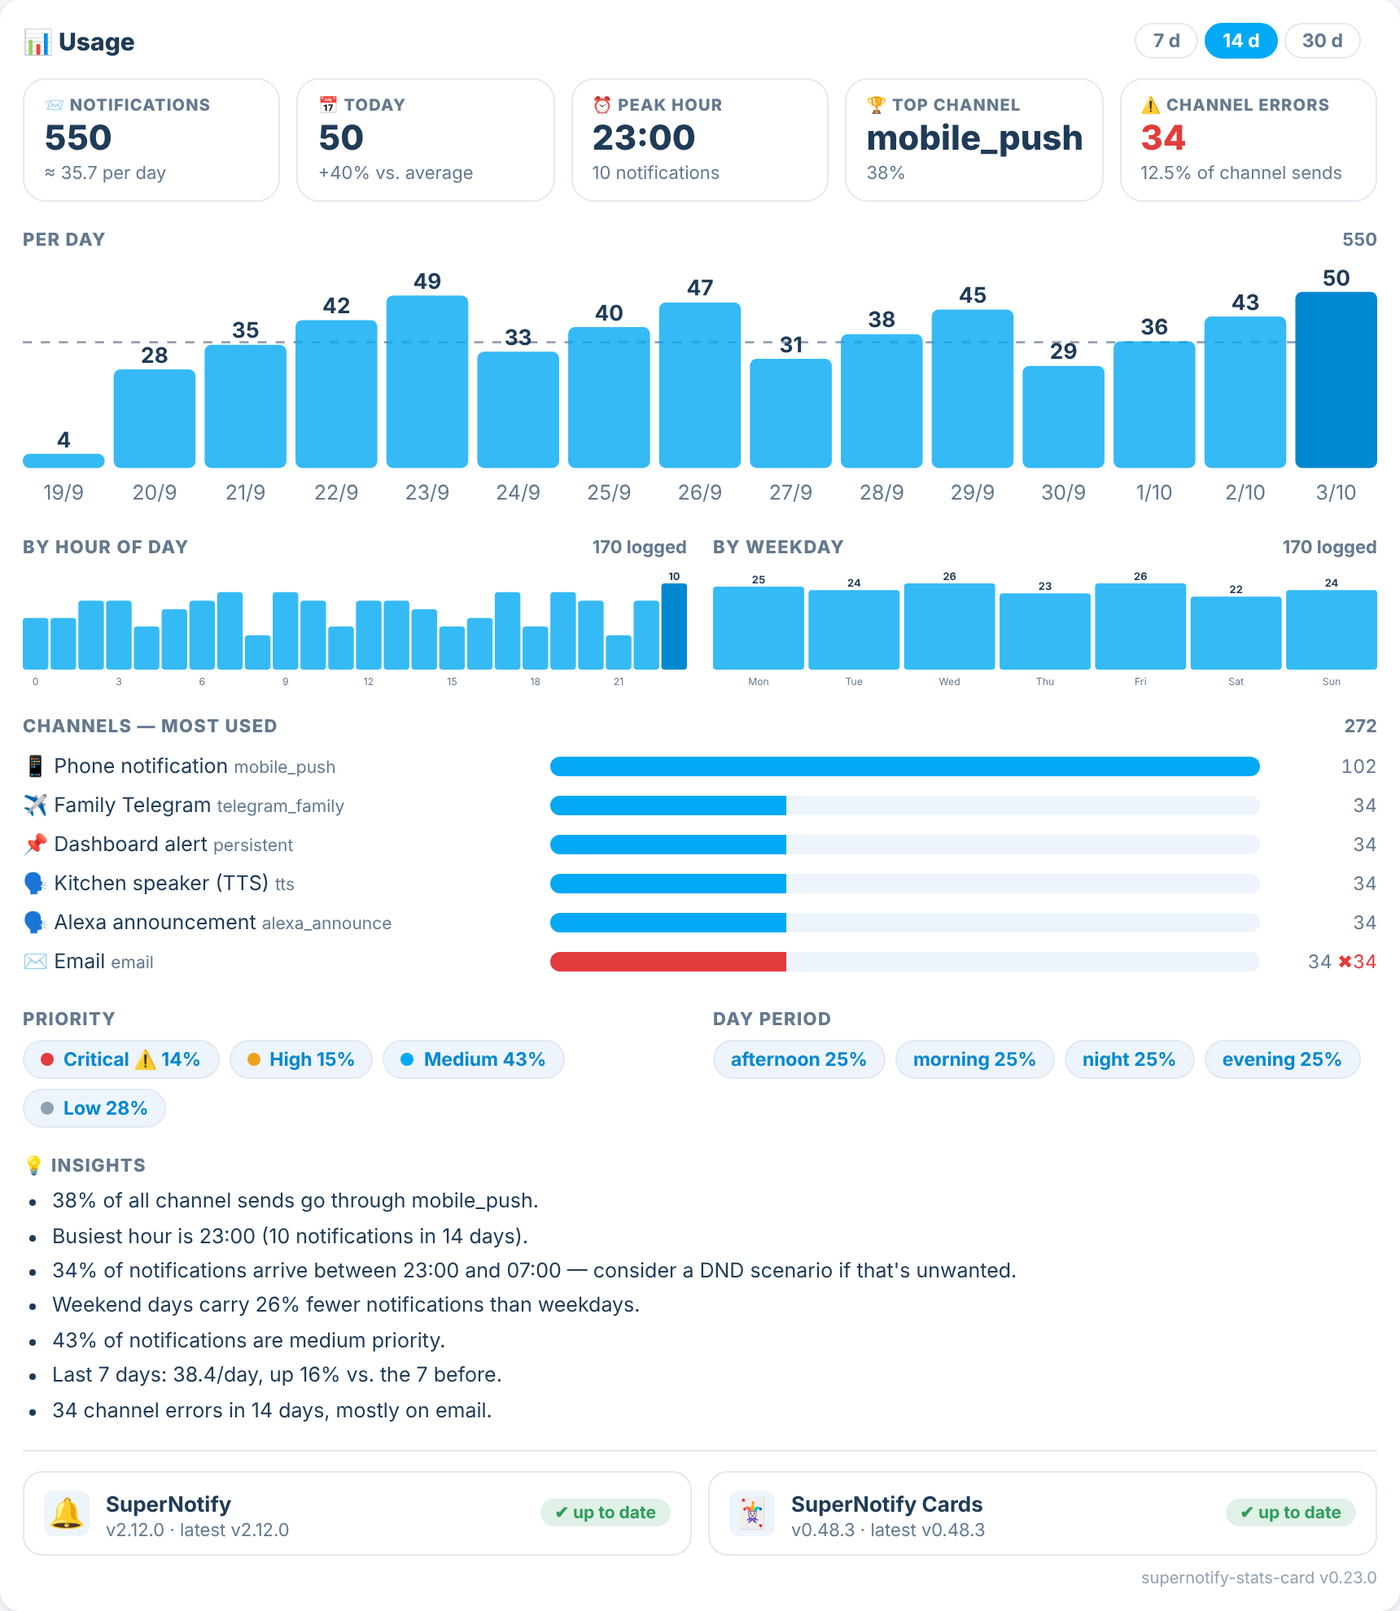
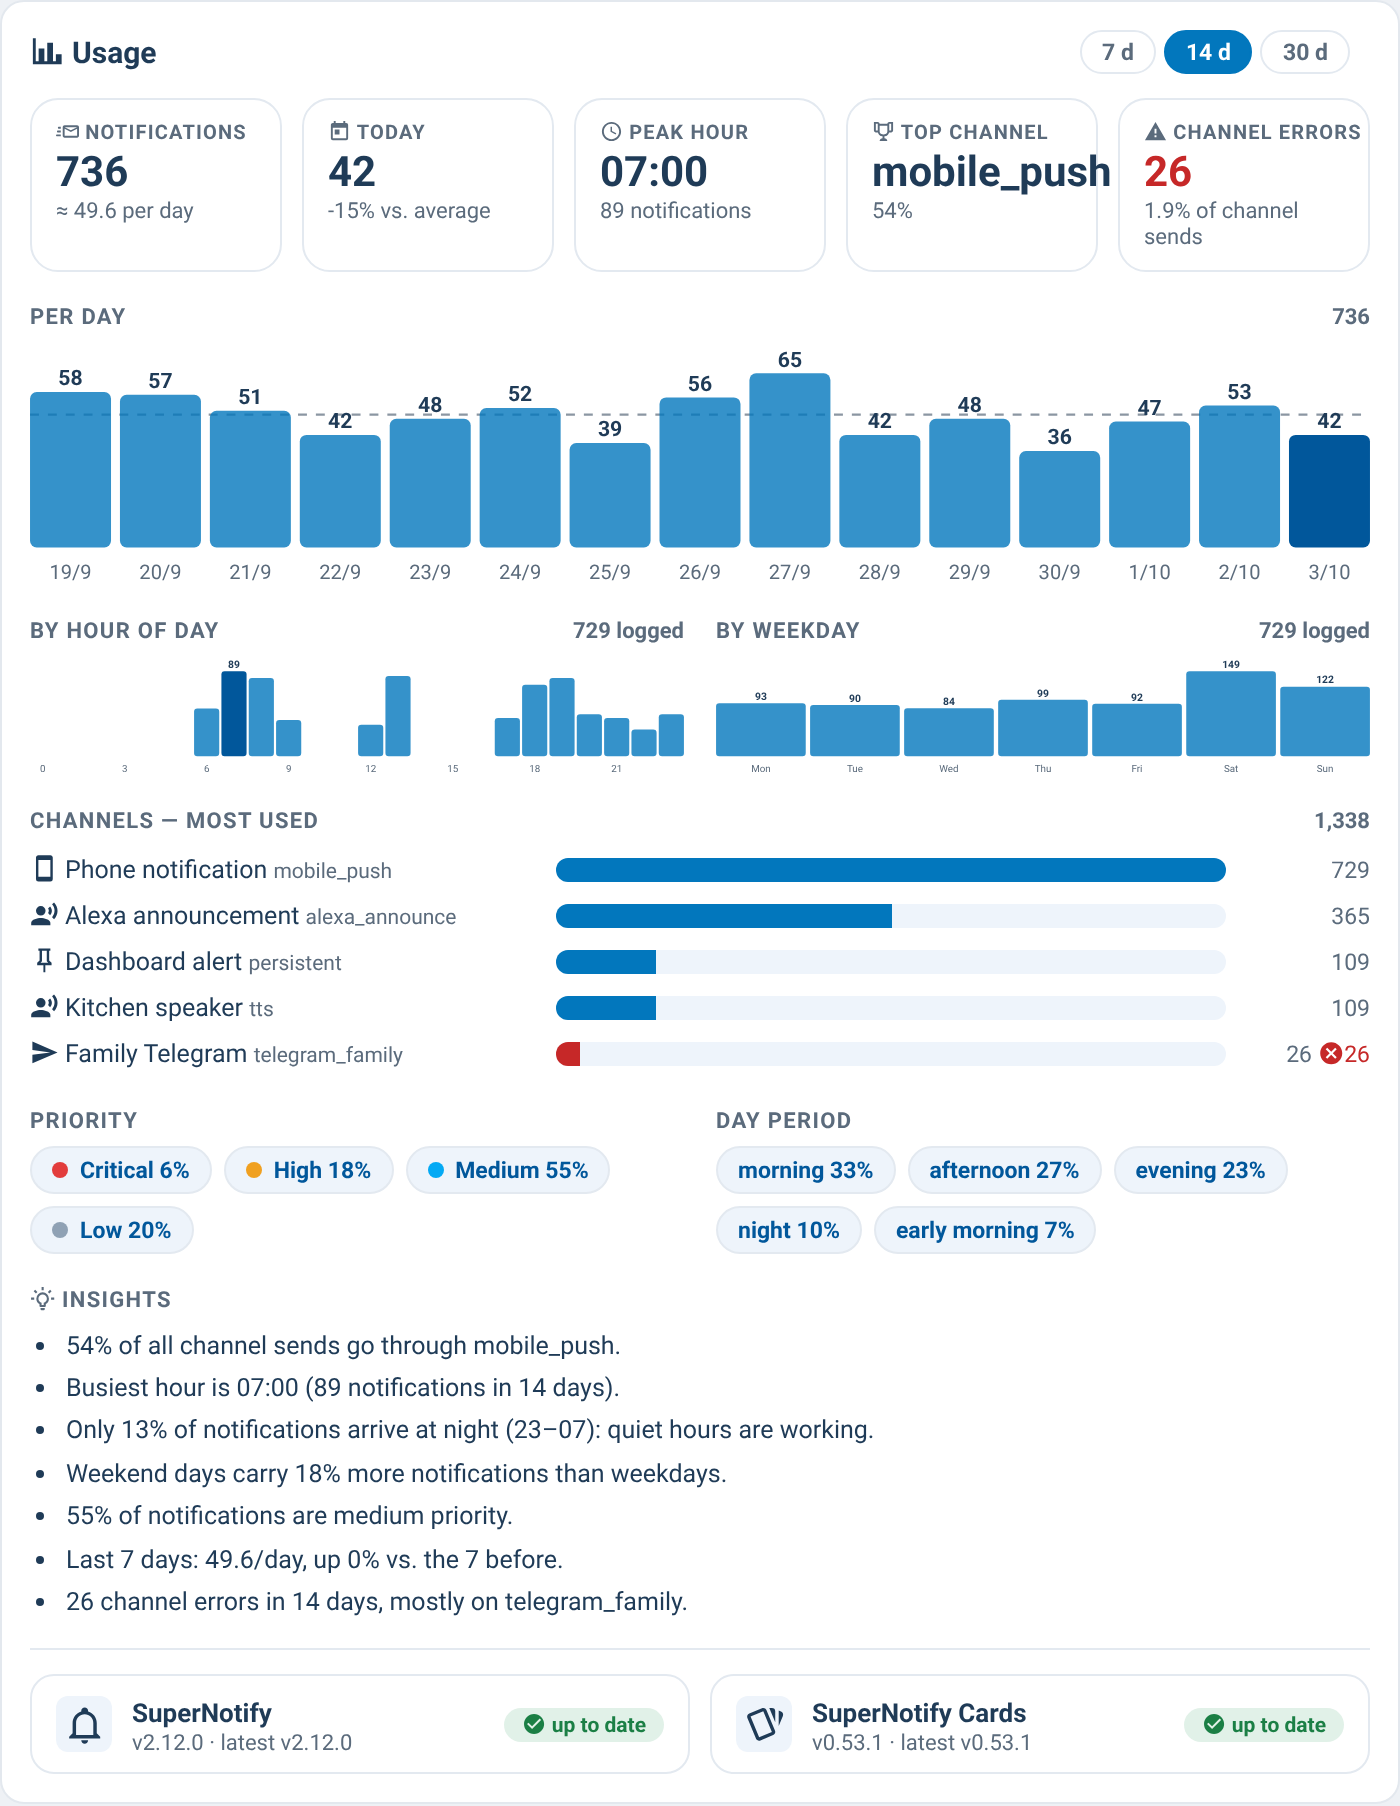
docs: new screenshots of every card (redesign 0.49-0.53), tools/showcase.mjs; hide the composer/automations version - v0.53.1
Claude-Session: https://claude.ai/code/session_01ALt6dhzSXi9QkgiwPM6yvM

diff --git a/dist/supernotify-control-card.js b/dist/supernotify-control-card.js
@@ -8,6 +8,8 @@
  * Example config: see README.md
  *
  * CHANGELOG
+ * 2026-10-03 - v0.53.1. composer-card 0.17.1 and automations-card 0.18.1: their version (composer footer,
+ *   automations header) was still shown, missed by 0.49.0's `show_version`. New README / docs screenshots of every card from tools/showcase.mjs.
  * 2026-10-03 - v0.53.0. Redesign, step 5: why-card 0.9.0 answers first, details on demand.
  *   - The path in four steps under the title: call (channels named, or normal routing), scenarios
  *     in force, who was home, channels (sent / to look at / skipped).
@@ -324,7 +326,7 @@
  *   Backup of the pre-change file: X:\sn_backups\supernotify_cards_20260908\supernotify-control-card_pre_toggle.js
  */
 
-const VERSION = "0.53.0"; // bundle / HACS release
+const VERSION = "0.53.1"; // bundle / HACS release
 
 /**
  * Per-card versions: bumped ONLY when that card changes (the bundle VERSION
@@ -343,8 +345,8 @@ const SN_CARD_VERSIONS = {
   recipients: "0.24.0",
   scenarios: "0.21.0",
   simulator: "0.12.0",
-  composer: "0.17.0",
-  automations: "0.18.0",
+  composer: "0.17.1",
+  automations: "0.18.1",
   stats: "0.25.0",
   archive: "0.33.0",
   why: "0.9.0",
@@ -3835,7 +3837,7 @@ class SupernotifyComposerCard extends HTMLElement {
         </div>
         <div class="dryBox" id="dryBox" style="display:none"></div>
         <div class="toast" id="toast"></div>
-        <div style="text-align:right;font-size:10px;color:${p.muted};opacity:.7;margin-top:8px">supernotify-composer-card v${SN_CARD_VERSIONS.composer}</div>
+        ${this._config && this._config.show_version ? `<div style="text-align:right;font-size:10px;color:${p.muted};opacity:.7;margin-top:8px">supernotify-composer-card v${SN_CARD_VERSIONS.composer}</div>` : ""}
       </ha-card>`, this && this._config);
     const sr = this.shadowRoot;
     const upd = () => {
@@ -4295,7 +4297,7 @@ class SupernotifyAutomationsCard extends HTMLElement {
       <div class="top">
         <input type="search" id="q" placeholder="${this._esc(T.aut_search)}"
           value="${this._esc(this._q)}" aria-label="${this._esc(T.aut_search)}">
-        <span class="tot">${items.length} ${T.aut_count} · v${SN_CARD_VERSIONS.automations}</span>
+        <span class="tot">${items.length} ${T.aut_count}${this._config.show_version ? ` · v${SN_CARD_VERSIONS.automations}` : ""}</span>
       </div>
       <div class="chips" id="chips"></div>
       <div id="list" class="flow"></div>`, this && this._config);

diff --git a/CHANGELOG.md b/CHANGELOG.md
@@ -3,6 +3,18 @@
 All notable changes to **supernotify-control-card** are documented here.
 Format based on [Keep a Changelog](https://keepachangelog.com/en/1.1.0/).
 
+## [0.53.1] - 2026-10-03
+
+### Fixed
+- composer-card (0.17.1) and automations-card (0.18.1) still showed their version (composer
+  footer, automations header), missed by 0.49.0's `show_version`.
+
+### Docs
+- New screenshots of every card in the README and in `docs/cards`, showing the redesign
+  (0.49.0 to 0.53.0), from a demo installation with invented data.
+- `tools/showcase.mjs` makes them again: headless Chromium, Home Assistant icons drawn from
+  `@mdi/js`, light and dark theme.
+
 ## [0.53.0] - 2026-10-03
 
 Fifth and last step of the redesign: the why-card answers first, the details come on demand.
